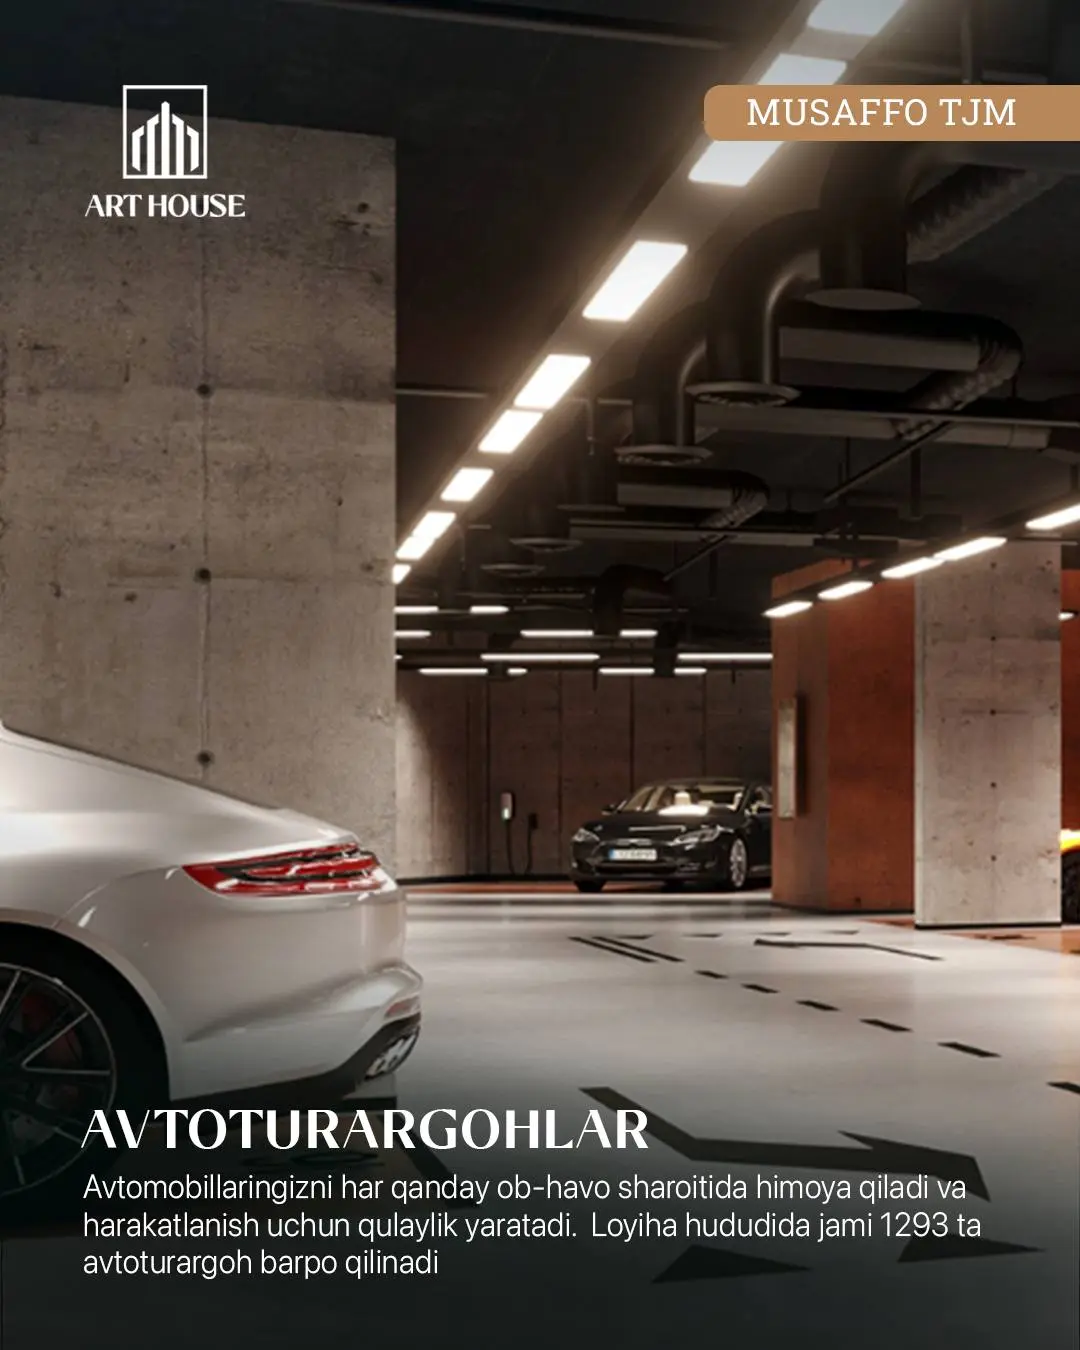
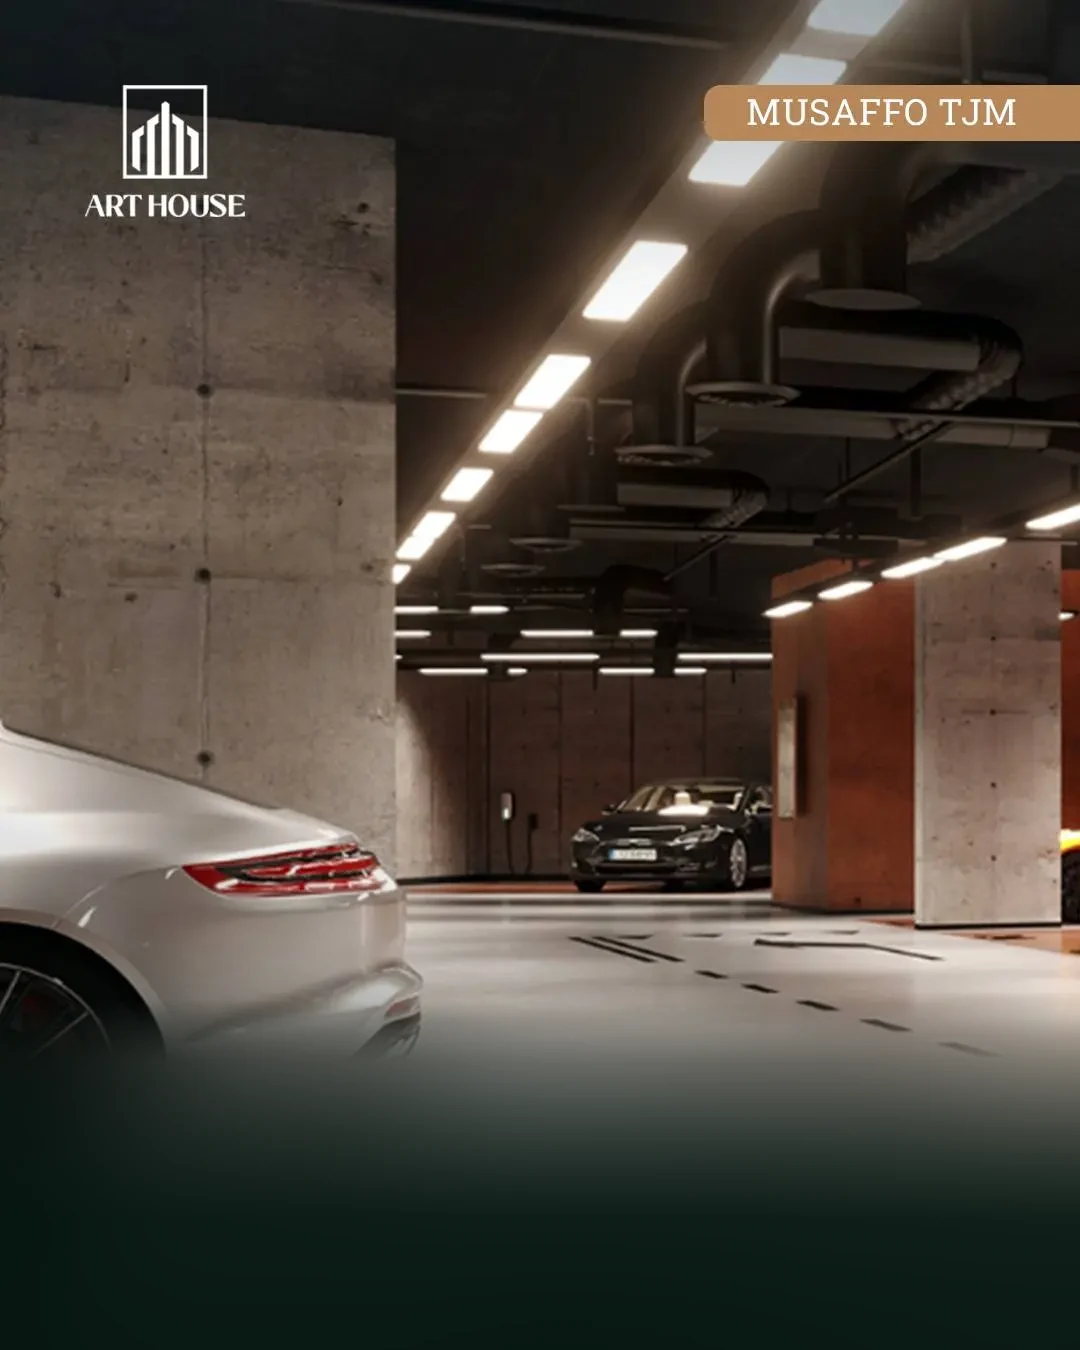
Rasmlardagi yozuvlar har bir tilda; yo'q videolar qora oyna bo'lib chiqmaydi
- 10 ta rasmdagi o'zbekcha yozuv xiralashtirib olib tashlandi (asli assets/img/orig/)
- Yozuv rasm ustiga HTML matn sifatida 8 tilda chiqadi: galereya, kattalashtirilgan ko'rinish, qulayliklar
- obod-toshkent.webp (yuklanish belgili skrinshot) galereyadan olib tashlandi
- tools/clean-text.py — yangi rasmlar uchun ham ishlatish mumkin
- media/ dagi yo'q videolar avtomatik yashiriladi

Claude-Session: https://claude.ai/code/session_01X9vxWQgC8h4XUdDPMoCiCK

Changed region(s): [[0.0611, 0.7467, 1.0, 1.0]]

diff --git a/js/config.js b/js/config.js
@@ -132,9 +132,9 @@ window.PROJECTS = [
     ],
     gallery: [
       { src: 'assets/img/musaffo/fasad-kunduzi.webp', t: { uz: 'Tashqi fasad — kunduzi', ru: 'Фасад днём', en: 'Façade by day', fr: 'Façade de jour', it: 'Facciata di giorno', es: 'Fachada de día', de: 'Fassade bei Tag', tr: 'Gündüz cephe' } },
-      { src: 'assets/img/musaffo/majmua-kechki.webp', t: { uz: 'Kechki yoritilgan majmua', ru: 'Комплекс в вечерней подсветке', en: 'The complex at dusk', fr: 'La résidence au crépuscule', it: 'Il complesso al tramonto', es: 'El complejo al anochecer', de: 'Die Anlage in der Abendbeleuchtung', tr: 'Akşam ışıklarında kompleks' } },
-      { src: 'assets/img/musaffo/musaffo-aerial-ig.webp', t: { uz: "Musaffo — yuqoridan ko'rinish", ru: 'Musaffo — вид сверху', en: 'Musaffo — aerial view', fr: 'Musaffo — vue aérienne', it: "Musaffo — vista dall'alto", es: 'Musaffo — vista aérea', de: 'Musaffo — Luftansicht', tr: 'Musaffo — kuşbakışı' } },
-      { src: 'assets/img/musaffo/dupleks-interyer.webp', t: { uz: 'Dupleks — ikki qavatli makon', ru: 'Дуплекс — два уровня', en: 'Duplex — two levels', fr: 'Duplex sur deux niveaux', it: 'Duplex su due livelli', es: 'Dúplex de dos plantas', de: 'Duplex auf zwei Ebenen', tr: 'Dubleks — iki katlı yaşam' } },
+      { src: 'assets/img/musaffo/majmua-kechki.webp', t: { uz: 'Kechki yoritilgan majmua', ru: 'Комплекс в вечерней подсветке', en: 'The complex at dusk', fr: 'La résidence au crépuscule', it: 'Il complesso al tramonto', es: 'El complejo al anochecer', de: 'Die Anlage in der Abendbeleuchtung', tr: 'Akşam ışıklarında kompleks' }, ov: { h: { uz: "Har bir orzuning o'z manzili bo'ladi", ru: 'У каждой мечты есть свой адрес', en: 'Every dream has its own address', fr: 'Chaque rêve a son adresse', it: 'Ogni sogno ha il suo indirizzo', es: 'Cada sueño tiene su dirección', de: 'Jeder Traum hat seine Adresse', tr: 'Her hayalin bir adresi vardır' }, a: { uz: 'Sizniki — Musaffo', ru: 'Ваш — Musaffo', en: 'Yours is Musaffo', fr: 'La vôtre : Musaffo', it: 'Il tuo è Musaffo', es: 'La tuya: Musaffo', de: 'Ihre heißt Musaffo', tr: 'Sizinki — Musaffo' } } },
+      { src: 'assets/img/musaffo/musaffo-aerial-ig.webp', t: { uz: "Musaffo — yuqoridan ko'rinish", ru: 'Musaffo — вид сверху', en: 'Musaffo — aerial view', fr: 'Musaffo — vue aérienne', it: "Musaffo — vista dall'alto", es: 'Musaffo — vista aérea', de: 'Musaffo — Luftansicht', tr: 'Musaffo — kuşbakışı' }, ov: { h: { uz: 'MUSAFFO', ru: 'MUSAFFO', en: 'MUSAFFO', fr: 'MUSAFFO', it: 'MUSAFFO', es: 'MUSAFFO', de: 'MUSAFFO', tr: 'MUSAFFO' }, s: { uz: "Tabiiy muhitni zamonaviy yashash makoni bilan uyg'unlashtirgan manzil!", ru: 'Адрес, где природа гармонично сочетается с современной жизнью!', en: 'An address where nature meets modern living!', fr: 'Une adresse où la nature rencontre la vie moderne !', it: 'Un indirizzo dove la natura incontra la vita moderna!', es: '¡Una dirección donde la naturaleza se une a la vida moderna!', de: 'Eine Adresse, an der Natur und modernes Wohnen zusammenfinden!', tr: 'Doğayla modern yaşamı buluşturan bir adres!' } } },
+      { src: 'assets/img/musaffo/dupleks-interyer.webp', t: { uz: 'Dupleks — ikki qavatli makon', ru: 'Дуплекс — два уровня', en: 'Duplex — two levels', fr: 'Duplex sur deux niveaux', it: 'Duplex su due livelli', es: 'Dúplex de dos plantas', de: 'Duplex auf zwei Ebenen', tr: 'Dubleks — iki katlı yaşam' }, ov: { h: { uz: '«Musaffo» TJM', ru: 'ЖК «Musaffo»', en: 'Musaffo Residence', fr: 'Résidence Musaffo', it: 'Residenza Musaffo', es: 'Residencial Musaffo', de: 'Wohnanlage Musaffo', tr: 'Musaffo Konutları' }, t: { uz: 'dupleks xonadonlar', ru: 'квартиры-дуплексы', en: 'duplex apartments', fr: 'appartements en duplex', it: 'appartamenti duplex', es: 'apartamentos dúplex', de: 'Maisonette-Wohnungen', tr: 'dubleks daireler' } } },
       { src: 'assets/img/musaffo/mehmonxona.webp', t: { uz: 'Mehmonxona', ru: 'Гостиная', en: 'Living room', fr: 'Salon', it: 'Soggiorno', es: 'Salón', de: 'Wohnzimmer', tr: 'Oturma odası' } },
       { src: 'assets/img/musaffo/oshxona.webp', t: { uz: 'Oshxona', ru: 'Кухня', en: 'Kitchen', fr: 'Cuisine', it: 'Cucina', es: 'Cocina', de: 'Küche', tr: 'Mutfak' } },
       { src: 'assets/img/musaffo/yotoqxona.webp', t: { uz: 'Yotoqxona', ru: 'Спальня', en: 'Bedroom', fr: 'Chambre', it: 'Camera da letto', es: 'Dormitorio', de: 'Schlafzimmer', tr: 'Yatak odası' } }
@@ -179,8 +179,8 @@ window.PROJECTS = [
     ],
     amenities: [],
     gallery: [
-      { src: 'assets/img/obod/obod-joylashuv.webp', t: { uz: "Ko'kcha Oqtepa hududidagi infratuzilma xaritasi", ru: 'Карта инфраструктуры района Кукча-Октепа', en: 'Infrastructure map of the Kukcha Oqtepa area', fr: 'Carte des équipements du quartier de Kukcha Oqtepa', it: 'Mappa dei servizi della zona di Kukcha Oqtepa', es: 'Mapa de servicios de la zona de Kukcha Oqtepa', de: 'Infrastrukturkarte des Gebiets Kukcha Oqtepa', tr: 'Kukcha Oqtepa bölgesi altyapı haritası' } },
-      { src: 'assets/img/obod/obod-toshkent.webp', t: { uz: 'Obod Maskan — Toshkent shahridan xonadon', ru: 'Obod Maskan — квартира в Ташкенте', en: 'Obod Maskan — a home in Tashkent', fr: 'Obod Maskan — un logement à Tachkent', it: 'Obod Maskan — una casa a Tashkent', es: 'Obod Maskan — una vivienda en Taskent', de: 'Obod Maskan — ein Zuhause in Taschkent', tr: "Obod Maskan — Taşkent'te bir ev" } }
+      { src: 'assets/img/obod/obod-joylashuv.webp', t: { uz: "Ko'kcha Oqtepa hududidagi infratuzilma xaritasi", ru: 'Карта инфраструктуры района Кукча-Октепа', en: 'Infrastructure map of the Kukcha Oqtepa area', fr: 'Carte des équipements du quartier de Kukcha Oqtepa', it: 'Mappa dei servizi della zona di Kukcha Oqtepa', es: 'Mapa de servicios de la zona de Kukcha Oqtepa', de: 'Infrastrukturkarte des Gebiets Kukcha Oqtepa', tr: 'Kukcha Oqtepa bölgesi altyapı haritası' }, ov: { h: { uz: "Uyingiz joylashuvini to'g'ri tanlang", ru: 'Выберите правильное расположение дома', en: 'Choose the right location for your home', fr: 'Choisissez le bon emplacement pour votre maison', it: 'Scegli la posizione giusta per la tua casa', es: 'Elija la ubicación adecuada para su hogar', de: 'Wählen Sie die richtige Lage für Ihr Zuhause', tr: 'Evinizin konumunu doğru seçin' }, s: { uz: 'ObodMaskan — shahar markazi yaqinida yorqin hayot!', ru: 'ObodMaskan — яркая жизнь рядом с центром города!', en: 'ObodMaskan — a vibrant life near the city centre!', fr: 'ObodMaskan — une vie lumineuse près du centre-ville !', it: 'ObodMaskan — una vita vivace vicino al centro!', es: 'ObodMaskan: una vida vibrante cerca del centro.', de: 'ObodMaskan – lebendiges Wohnen nahe der Innenstadt!', tr: 'ObodMaskan — şehir merkezine yakın parlak bir yaşam!' } } },
+      // obod-toshkent.webp olib tashlandi: bu yuklanayotgan videodan olingan skrinshot (aylanuvchi belgi bilan)
     ],
     plans: []
   },

diff --git a/js/site.js b/js/site.js
@@ -233,7 +233,7 @@
     }).join('') + '</div>';
 
     if (p.gallery.length) h += '<div class="sec-head"><h2>' + esc(t('proj.gallery')) + '</h2></div><div class="gallery">' + p.gallery.map(function (g, i) {
-      return '<button type="button" data-lb="gal" data-idx="' + i + '"><img src="' + g.src + '" alt="' + esc(pick(g.t)) + '" loading="lazy" decoding="async"><span>' + esc(pick(g.t)) + '</span></button>';
+      return '<button type="button" data-lb="gal" data-idx="' + i + '"' + (g.ov ? ' class="has-ov"' : '') + '><img src="' + g.src + '" alt="' + esc(pick(g.t)) + '" loading="lazy" decoding="async">' + ovHtml(g.ov) + '<span>' + esc(pick(g.t)) + '</span></button>';
     }).join('') + '</div>';
 
     if (p.plans.length) {
@@ -258,8 +258,8 @@
       $$('#planFilter button').forEach(function (x) { x.setAttribute('aria-pressed', String(x === b)); });
       $$('.plan').forEach(function (f) { f.hidden = projState.rooms !== 'all' && f.dataset.r !== projState.rooms; });
     } else if ((b = e.target.closest('[data-lb]'))) {
-      var kind = b.dataset.lb, items = kind === 'gal' ? p.gallery.map(function (g) { return { src: g.src, cap: pick(g.t) }; })
-        : kind === 'amen' ? p.amenities.map(function (a) { return { src: a.img, cap: pick(a.t) }; })
+      var kind = b.dataset.lb, items = kind === 'gal' ? p.gallery.map(function (g) { return { src: g.src, cap: pick(g.t), ov: g.ov }; })
+        : kind === 'amen' ? p.amenities.map(function (a) { return { src: a.img, cap: pick(a.t), ov: { h: a.t, s: a.d } }; })
           : p.plans.map(function (pl) { return { src: pl.img, cap: planName(pl) }; });
       openLightbox(items, +b.dataset.idx);
     } else if ((b = e.target.closest('[data-book-plan]'))) {
@@ -477,7 +477,13 @@
 
   /* ================= LIGHTBOX ================= */
   var lb = { items: [], i: 0 };
-  function lbShow(i) { lb.i = (i + lb.items.length) % lb.items.length; var it = lb.items[lb.i]; $('#lbImg').src = it.src; $('#lbImg').alt = it.cap; $('#lbCap').textContent = it.cap + ' · ' + (lb.i + 1) + '/' + lb.items.length; }
+  function lbShow(i) { lb.i = (i + lb.items.length) % lb.items.length; var it = lb.items[lb.i]; $('#lbImg').src = it.src; var im = $('#lbImg'), wr = im.parentNode; if (!wr.classList.contains('lb-wrap')) { wr = document.createElement('div'); wr.className = 'lb-wrap'; im.before(wr); wr.appendChild(im); } var ov = $('.img-ov', wr); if (ov) ov.remove(); if (it.ov) im.insertAdjacentHTML('afterend', ovHtml(it.ov)); var fit = function () { wr.classList.remove('sized'); wr.style.width = ''; var w = im.getBoundingClientRect().width; if (w) { wr.style.width = w + 'px'; wr.classList.add('sized'); } }; im.onload = fit; if (im.complete) fit(); $('#lbImg').alt = it.cap; $('#lbCap').textContent = it.cap + ' · ' + (lb.i + 1) + '/' + lb.items.length; }
+  /* rasm ustidagi yozuv (har bir tilda): h — sarlavha, a — oltin urg'u, t — yorliq, s — kichik matn */
+  function ovHtml(o) {
+    if (!o) return '';
+    var h = pick(o.h), a = pick(o.a), tg = pick(o.t), sm = pick(o.s);
+    return '<div class="img-ov">' + (h ? '<b>' + esc(h) + '</b>' : '') + (a ? '<em>' + esc(a) + '</em>' : '') + (tg ? '<i>' + esc(tg) + '</i>' : '') + (sm ? '<small>' + esc(sm) + '</small>' : '') + '</div>';
+  }
   function openLightbox(items, i) { lb.items = items; lbShow(i); openModal($('#lightbox')); }
   $('#lightbox').addEventListener('click', function (e) { var d = e.target.closest('[data-dir]'); if (d) return lbShow(lb.i + +d.dataset.dir); if (e.target.closest('[data-close]') || e.target === this) closeModal(this); });
   (function swipe() { var x0 = null; $('#lightbox').addEventListener('touchstart', function (e) { x0 = e.touches[0].clientX; }, { passive: true }); $('#lightbox').addEventListener('touchend', function (e) { if (x0 == null) return; var dx = e.changedTouches[0].clientX - x0; if (Math.abs(dx) > 50) lbShow(lb.i + (dx < 0 ? 1 : -1)); x0 = null; }); })();

diff --git a/js/cms-site-3.js b/js/cms-site-3.js
@@ -144,14 +144,16 @@
     var h = '<div class="sec-head reveal in"><h2>' + esc(t('proj.video')) + '</h2></div><div class="pvids">' + p.videos.map(function (v) {
       var y = ytId(v.src);
       return '<figure class="pvid' + (v.vert ? ' vert' : '') + '">' + (y ? '<iframe src="https://www.youtube-nocookie.com/embed/' + y + '" title="' + esc(pick(v.t)) + '" loading="lazy" allowfullscreen></iframe>'
-        : '<video src="' + esc(v.src) + '"' + (v.poster ? ' poster="' + esc(v.poster) + '"' : '') + ' controls playsinline preload="none"></video>') + (pick(v.t) ? '<figcaption>' + esc(pick(v.t)) + '</figcaption>' : '') + '</figure>';
+        : '<video src="' + esc(v.src) + '"' + (v.poster ? ' poster="' + esc(v.poster) + '"' : '') + ' controls playsinline preload="metadata"></video>') + (pick(v.t) ? '<figcaption>' + esc(pick(v.t)) + '</figcaption>' : '') + '</figure>';
     }).join('') + '</div>';
     var hero = box.querySelector('.pd-hero');
     if (hero) hero.insertAdjacentHTML('afterend', h); else box.insertAdjacentHTML('beforeend', h);
     $$('.pvid video', box).forEach(function (v) { v.addEventListener('error', function () { var f = v.closest('.pvid'); if (f) f.remove(); }); });
   }
   var pd = $('#projDetail'); if (pd) new MutationObserver(function () { projVideos(); }).observe(pd, { childList: true });
-  var fv = $('#festVideo'); if (fv) fv.addEventListener('error', function () { var c = fv.closest('.fest'); if (c) c.hidden = true; });
+  var fv = $('#festVideo'); if (fv) { fv.setAttribute('preload', 'metadata'); fv.addEventListener('error', function () { var c = fv.closest('.fest'); if (c) c.hidden = true; }); try { fv.load(); } catch (e) {} }
+  /* video fayli topilmasa — bo'sh qora oyna ko'rsatilmaydi (manba xatosi <source> da ham ushlanadi) */
+  document.addEventListener('error', function (e) { var el = e.target; if (!el || (el.tagName !== 'VIDEO' && el.tagName !== 'SOURCE')) return; var v = el.tagName === 'SOURCE' ? el.parentNode : el; if (v.id === 'heroVideo') return; var box = v.closest('.pvid,.fest,.cms-gi'); if (box) box.hidden = true; }, true);
 
   /* ---------- kabinetdan qo'shilgan foto va video galereya ---------- */
   var MD = C.media || {}, GI = (MD.items || []).filter(function (x) { return x && x.src && x.on !== false; });

diff --git a/css/site-lux.css b/css/site-lux.css
@@ -127,3 +127,18 @@ body { font-variant-numeric: lining-nums; }
 .mnav-row { display: grid; grid-template-columns: 1fr 1fr; gap: 10px; }
 .mnav-mini { display: flex; align-items: center; justify-content: center; gap: 8px; min-height: 48px; border-radius: 14px; border: 1px solid rgba(235, 212, 156, .22); color: var(--ink); font-size: 14px; font-weight: 500; }
 .mnav-mini .mnav-emo { width: 22px; height: 22px; }
+
+/* =====================================================================
+   RASM USTIDAGI YOZUV — har bir tilda (asl rasmdagi o'zbekcha matn o'rniga)
+   ===================================================================== */
+.gallery button, .lb-wrap.sized { container-type: inline-size; }
+.lb-wrap { position: relative; display: block; max-width: 100%; margin: 0 auto; line-height: 0; }
+.lb-wrap:not(.sized) .img-ov { visibility: hidden; }
+.lb-wrap img { display: block; }
+.img-ov { position: absolute; left: 0; right: 0; bottom: 0; padding: 0 7cqw 7cqw; display: grid; justify-items: center; text-align: center; gap: 1.6cqw; line-height: 1.15; pointer-events: none; }
+.img-ov b { font-family: var(--f-display); font-weight: 600; font-size: 7.4cqw; letter-spacing: .02em; text-transform: uppercase; color: #F8F1DE; text-shadow: 0 2px 14px rgba(0, 0, 0, .45); text-wrap: balance; }
+.img-ov em { font-family: var(--f-display); font-style: normal; font-weight: 600; font-size: 8cqw; text-transform: uppercase; background: linear-gradient(180deg, #FFF3D0, #D9B672); -webkit-background-clip: text; background-clip: text; color: transparent; }
+.img-ov i { font-style: normal; font-family: var(--f-display); font-size: 5.4cqw; padding: .6cqw 2.4cqw; border-radius: 1cqw; background: #C9A570; color: #2A1E0C; }
+.img-ov b:has(~ small) { font-size: 6.2cqw; }
+.img-ov small { font-size: 3.6cqw; line-height: 1.35; color: rgba(248, 240, 216, .88); max-width: 88%; text-wrap: balance; }
+.gallery button.has-ov > span { display: none; }

diff --git a/index.html b/index.html
@@ -303,7 +303,7 @@
   </div>
 
   <div class="card fest">
-   <video id="festVideo" src="media/art-house-festival.mp4" poster="media/art-house-festival.jpg" controls playsinline preload="none"></video>
+   <video id="festVideo" src="media/art-house-festival.mp4" poster="media/art-house-festival.jpg" controls playsinline preload="metadata"></video>
    <div>
     <p class="eyebrow" data-i="about.festE">ART HOUSE hayoti</p>
     <h3 data-i="about.festT">Rezidentlar va mehmonlar uchun bayram</h3>

diff --git a/tools/clean-text.py b/tools/clean-text.py
@@ -1,0 +1,50 @@
+"""Rasmlardagi o'zbekcha yozuvni yo'qotish: yozuv joyi kuchli xiralashtirilib, ustidan
+yumshoq to'q gradient qo'yiladi. Yozuvning o'zi saytda HTML matn sifatida (har bir tilda) chiqadi.
+Asl rasmlar assets/img/orig/ papkasida saqlanadi. Qayta ishlatish: python3 tools/clean-text.py"""
+import os, shutil
+from PIL import Image, ImageFilter, ImageDraw
+
+ROOT = os.path.dirname(os.path.dirname(os.path.abspath(__file__)))
+# fayl: [(y0, y1, qorong'ilik, gradient yo'nalishi)]  — y0/y1 rasm balandligiga nisbatan
+REGIONS = {
+    'musaffo/avtoturargoh.webp':       [(.74, 1, .82, 'up')],
+    'musaffo/bolalar-oyingohi.webp':   [(.76, 1, .82, 'up')],
+    'musaffo/fitness-zona.webp':       [(.76, 1, .82, 'up')],
+    'musaffo/kolyaska-velosiped.webp': [(.76, 1, .82, 'up')],
+    'musaffo/zamonaviy-lift.webp':     [(.77, 1, .82, 'up')],
+    'musaffo/dupleks-interyer.webp':   [(.74, 1, .78, 'up')],
+    'musaffo/majmua-kechki.webp':      [(.70, 1, .80, 'up')],
+    'musaffo/musaffo-aerial-ig.webp':  [(.72, 1, .82, 'up')],
+    'musaffo/musaffo-cover.webp':      [(.32, .63, .0, 'flat')],
+    'obod/obod-joylashuv.webp':        [(.21, .29, .0, 'flat'), (.72, 1, .82, 'up')],
+}
+
+def clean(rel, regs):
+    src = os.path.join(ROOT, 'assets/img', rel)
+    orig = os.path.join(ROOT, 'assets/img/orig', rel.replace('/', '__'))
+    if not os.path.exists(orig): shutil.copy(src, orig)
+    im = Image.open(orig).convert('RGB'); W, H = im.size
+    for reg in regs:
+        y0, y1, dark, mode = reg[:4]; x0, x1 = (reg[4], reg[5]) if len(reg) > 4 else (0, 1)
+        a, b = int(H * y0), int(H * y1); xa = int(W * x0); W2 = int(W * x1) - xa
+        band = im.crop((xa, a, xa + W2, b))
+        r = max(18, int(W * .045)) * (2 if W2 < W else 1)
+        bl = band.filter(ImageFilter.GaussianBlur(r)).filter(ImageFilter.GaussianBlur(r))
+        # chegarada silliq o'tish uchun niqob
+        m = Image.new('L', (W2, b - a), 255); d = ImageDraw.Draw(m); fe = max(8, int((b - a) * .18))
+        for i in range(fe):
+            v = int(255 * i / fe)
+            if a > 0: d.line([(0, i), (W2, i)], fill=v)
+            if b < H: d.line([(0, b - a - 1 - i), (W2, b - a - 1 - i)], fill=v)
+        band = Image.composite(bl, band, m)
+        if dark:
+            g = Image.new('L', (W2, b - a)); gd = ImageDraw.Draw(g)
+            for y in range(b - a):
+                k = y / max(1, b - a - 1)
+                gd.line([(0, y), (W2, y)], fill=int(255 * dark * (min(1, k * 1.6) if mode == 'up' else 1)))
+            band = Image.composite(Image.new('RGB', band.size, (4, 22, 16)), band, g)
+        im.paste(band, (xa, a))
+    im.save(src, 'WEBP', quality=88, method=6)
+    print(rel, im.size)
+
+for k, v in REGIONS.items(): clean(k, v)
